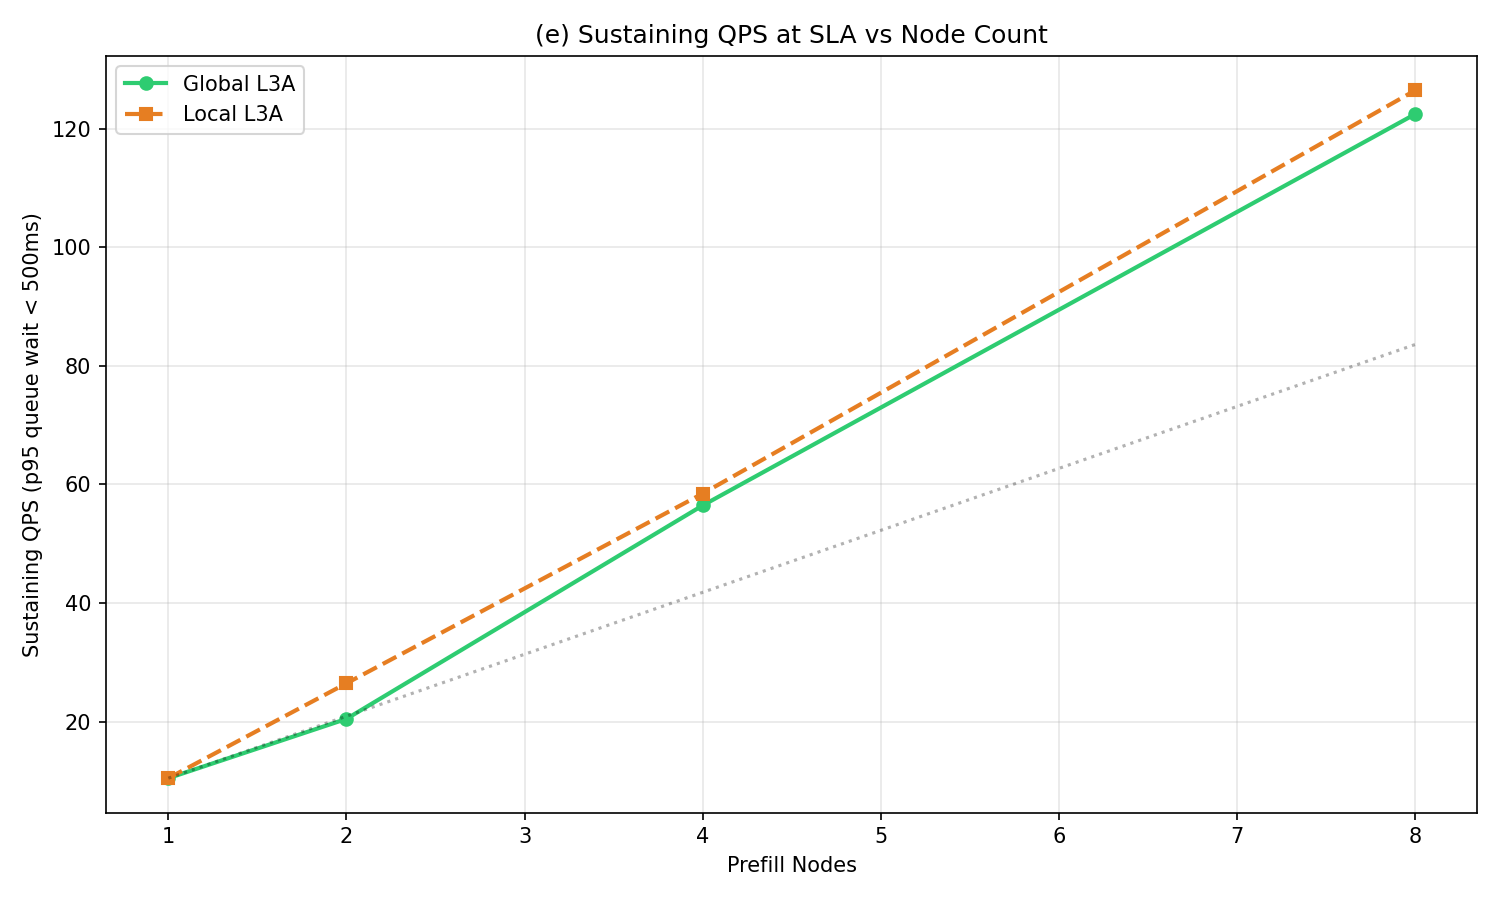
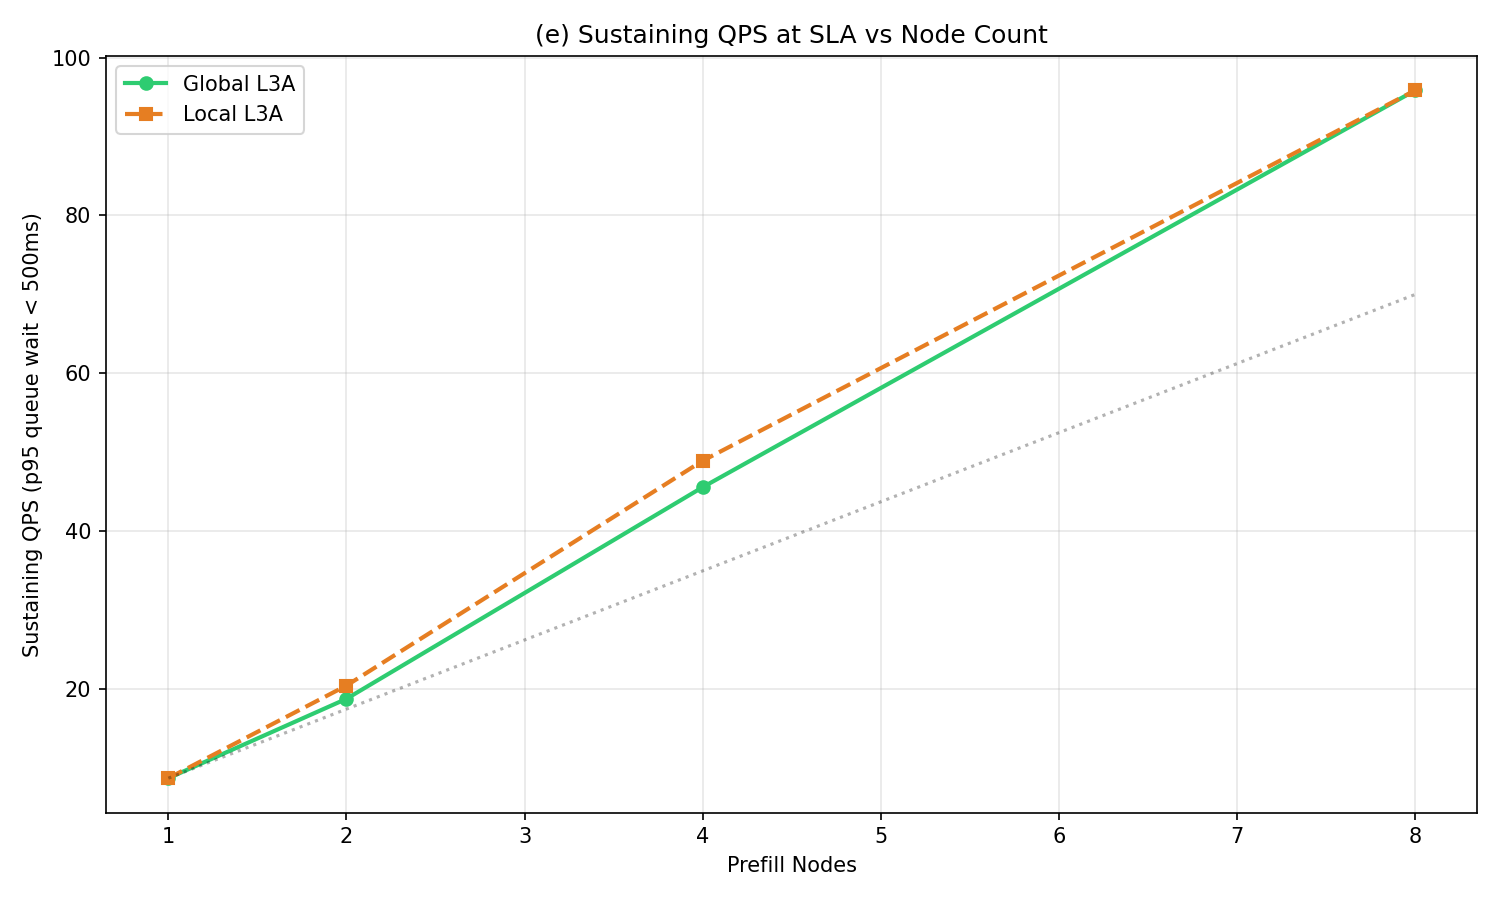
Update workload profiles to reflect real coding assistant token usage
Research-backed update: modern coding assistants (Claude Code, Cursor,
Copilot) use 40-80k tokens per prompt with 80-95% cacheability.

- coding profile: 20k system prefix (was 2k), 8k input/turn (was 800),
  95→80% prefix stability (was 85→40%)
- New agentic_coding profile: 30k system prefix, 15k input/turn,
  5-20k context growth per turn
- Updated profile_mix to include agentic_coding at 15%
- Legacy v1 profiles preserved in configs/legacy_v1.json
- All 22 tests pass, plots regenerated
- Research summary saved to plan_and_progress/

diff --git a/plan_and_progress/workload_plan_1.md b/plan_and_progress/workload_plan_1.md
@@ -1,0 +1,86 @@
+# Realistic Coding Workload — Plan #1
+
+Date: 2026-03-21
+
+## Motivation
+
+Research (see `research_coding_workload_tokens.md`) shows the current "coding" profile drastically underestimates real workloads:
+- `shared_system_prefix_tokens=2048` vs real ~20-30k
+- `input_len_mean_tokens=800` vs real ~8-15k
+- `prefix_stability=0.85→0.4` vs real ~0.95→0.80
+
+This means KV objects are much smaller than reality, which is why cache tier pressure and global vs local L3A differences don't manifest.
+
+## Phase 1: Update workload profiles
+
+### Update existing "coding" profile
+
+| Parameter | Current | Proposed | Rationale |
+|---|---|---|---|
+| `shared_system_prefix_tokens` | 2,048 | 20,000 | System prompt + tool defs |
+| `input_len_mean_tokens` | 800 | 8,000 | User message + tool output per turn |
+| `input_len_sigma_tokens` | 400 | 4,000 | Proportional spread |
+| `context_growth_min_tokens` | 500 | 2,000 | Prior turn adds response + tool calls |
+| `context_growth_max_tokens` | 2,000 | 10,000 | Large tool outputs |
+| `prefix_stability_initial` | 0.85 | 0.95 | 95% of context is stable prefix |
+| `prefix_stability_final` | 0.4 | 0.80 | Even late turns, 80%+ is cached |
+
+### Add new "agentic_coding" profile
+
+| Parameter | Value | Rationale |
+|---|---|---|
+| `name` | `"agentic_coding"` | Heavy agent sessions (Claude Code agent, Cursor agent) |
+| `arrival_rate_peak` | 20.0 | Fewer but heavier sessions |
+| `diurnal_peak_trough_ratio` | 4.0 | Same diurnal pattern |
+| `iat_mean_s` | 30.0 | ~30s between agent turns |
+| `iat_dist` | `"exponential"` | Standard |
+| `input_len_mean_tokens` | 15,000 | Large tool outputs each turn |
+| `input_len_sigma_tokens` | 7,500 | High variance |
+| `output_len_pareto_alpha` | 1.5 | Long outputs (code generation) |
+| `output_len_pareto_xmin` | 200 | Min output |
+| `context_growth_min_tokens` | 5,000 | Multi-file edits per turn |
+| `context_growth_max_tokens` | 20,000 | Large search/read results |
+| `prefix_stability_initial` | 0.95 | Nearly all context is prefix |
+| `prefix_stability_final` | 0.85 | High even at end of session |
+| `session_duration_mean_s` | 1,800.0 | 30-min agent sessions |
+| `session_duration_dist` | `"lognormal"` | Standard |
+| `shared_system_prefix_tokens` | 30,000 | Full system prompt + tools + CLAUDE.md |
+
+### Update profile_mix
+
+| Profile | Current | Proposed | Rationale |
+|---|---|---|---|
+| chat | 0.40 | 0.30 | Reduced share |
+| coding | 0.20 | 0.20 | Same share, but heavier per-request |
+| batch | 0.25 | 0.20 | Reduced share |
+| agent | 0.15 | 0.15 | Same |
+| agentic_coding | — | 0.15 | New profile |
+
+### Config file changes
+
+- Update `configs/default.json` with new coding profile values and add agentic_coding
+- Keep old values available as `configs/legacy_v1.json` for backward compat
+
+## Phase 2: Re-run analysis with realistic workloads
+
+With 60k-token KV objects (~20GB at 70B FP16), cache tiers will be stressed:
+- L1 (80GB) can hold ~4 objects → heavy eviction pressure
+- L2 (4TB) still large, but TTL-driven flow to L3A increases
+- L3A capacity matters more → global vs local L3A gap should appear
+
+Re-generate:
+- `node_scaling.png` — expect visible global vs local L3A differences
+- `ttl_sensitivity.png` — TTL impact should be more pronounced
+- `sustaining_qps.png` — sustaining QPS should decrease (heavier requests)
+- Stressed config may need adjustment for the larger KV objects
+
+## Phase 3: Update tests
+
+- Verify existing 22 tests still pass with updated default config
+- Add test for agentic_coding profile
+
+## Phase 4: Documentation + crosscheck + commit
+
+- Update README, CLAUDE.md, user_manual, example_report
+- Crosscheck plan vs deliverables
+- Commit and push

diff --git a/plan_and_progress/research_coding_workload_tokens.md b/plan_and_progress/research_coding_workload_tokens.md
@@ -1,0 +1,55 @@
+# Research: Modern Coding Workload Token Characteristics
+
+Date: 2026-03-21
+
+## Question
+
+Modern coding workloads (Claude Code, Cursor, GitHub Copilot) — what are typical prompt lengths and cacheability?
+
+## Findings
+
+### Total prompt length: ~40-80k tokens (median for agentic coding turns)
+
+- **Claude Code**: ~40k tokens early-session (system prompt 2.7k + tool defs 16.8k + agents/skills 2.3k + memory/CLAUDE.md 7.4k + conversation 9.6k), growing to 100k+ in longer sessions. 200k context window.
+- **Cursor**: 60k-135k input tokens per request commonly reported. A modest example is ~13k (2k system + 6k code context + 4k conversation + 1k user message). Agent mode routinely hits 60k+.
+- **GitHub Copilot**: 64k-128k context windows, ~30% reserved for output, leaving 40-90k for input.
+
+**60k tokens is a reasonable central estimate** for agentic coding. Simple completions are smaller (13k), long sessions go to 200k+.
+
+### Cacheability: 80-90% is conservative, real-world is 92-99%+
+
+- **Claude Code achieves 92% cache hit rate** in real 30-min sessions, reaching 99.7% by message 10. One power user: 4.2B tokens read from cache vs 197M written vs 1.3M uncached (>95% cache hits).
+- **Static prefix (system + tools) is ~20-30k tokens** — identical across every turn.
+- **Academic paper** ("Don't Break the Cache", arxiv 2601.06007): prompt caching reduces costs 41-80%, cacheable percentages 54-89% at 50k prompt sizes.
+- **Anthropic docs**: for a 50-turn coding agent with 10k system prompt, 500k tokens of identical instructions without caching.
+
+### Token distribution breakdown (Claude Code, representative)
+
+| Component | Tokens | % of Total | Cacheable? |
+|---|---|---|---|
+| System prompt | ~2,700 | ~7% | Yes (static) |
+| Tool definitions | ~16,800 | ~42% | Yes (static) |
+| Custom agents/skills | ~2,300 | ~6% | Yes (static per session) |
+| Memory/CLAUDE.md files | ~7,400 | ~19% | Yes (static per session) |
+| Prior conversation history | ~9,600+ | ~24% | Yes (grows but stable prefix) |
+| Current user message | ~1,000 | ~2% | No (new each turn) |
+| **Total** | **~40,000** | | **~98% cacheable** |
+
+As sessions progress, conversation grows to 100k+ but remains part of stable prefix (prior turns don't change).
+
+## Sources
+
+- [Anthropic Prompt Caching Docs](https://platform.claude.com/docs/en/build-with-claude/prompt-caching)
+- [Claude Code Context Buffer: The 33K-45K Token Problem](https://claudefa.st/blog/guide/mechanics/context-buffer-management)
+- [Why 99% of What You Send to Claude is Already Cached](https://www.frr.dev/posts/prompt-caching-99-percent-cache-hit/)
+- [How Prompt Caching Actually Works in Claude Code](https://www.claudecodecamp.com/p/how-prompt-caching-actually-works-in-claude-code)
+- [Claude's system prompt is over 24k tokens with tools (HN)](https://news.ycombinator.com/item?id=43909409)
+- [The Anatomy of a Cursor Prompt](https://dev.to/tawe/the-anatomy-of-a-cursor-prompt-2hb8)
+- [Cursor: 3 sentences into 60k+ tokens (Forum)](https://forum.cursor.com/t/cursor-always-turns-3-sentences-into-60k-tokens/149061)
+- [GitHub Copilot Context Window Discussion](https://github.com/orgs/community/discussions/188691)
+- [Don't Break the Cache (arxiv 2601.06007)](https://arxiv.org/abs/2601.06007)
+- [Anthropic Prompt Caching Announcement](https://www.anthropic.com/news/prompt-caching)
+
+## Implication for Simulator
+
+The current "coding" profile has `input_len_mean_tokens=800` and `shared_system_prefix_tokens=2048` — **both underestimate real workloads by 10-30x**. This means the simulator's KV objects are much smaller than reality, which is why L3A capacity pressure and global vs local L3A differences don't manifest in the stressed config.

diff --git a/CLAUDE.md b/CLAUDE.md
@@ -31,7 +31,7 @@ This causes output issues. Run pytest without stderr redirection.
 - **sim/cache.py** — `CacheObject`, `TierStore` (per-tier storage manager), `PrefixTrie` (token hash-based prefix matching), `kv_size_bytes()` formula.
 - **sim/eviction.py** — `EvictionEngine` manages L1->L2->L3A movement. L1 eviction is watermark-based, L2->L3A is TTL-driven, L3A cleanup is LRU.
 - **sim/oracle.py** — `PrefillOracle` (piecewise-linear interpolation from A100 benchmark table), `DecodeOracle` (sqrt batch degradation model), `transfer_time_us()`, `is_cache_worthwhile()`.
-- **sim/workload.py** — `WorkloadSynthesizer` generates arrivals via NHPP (thinning algorithm) with sinusoidal diurnal modulation. Four profiles: chat, coding, batch, agent.
+- **sim/workload.py** — `WorkloadSynthesizer` generates arrivals via NHPP (thinning algorithm) with sinusoidal diurnal modulation. Five profiles: chat, coding, batch, agent, agentic_coding.
 - **sim/service.py** — `ServiceModel` tracks prefill/decode GPU slot pools with queue backpressure.
 - **sim/metrics.py** — `MetricsCollector` accumulates TTFT, hit rates, evictions, occupancy, sharing factor. `.report()` produces the summary dict.
 - **sim/config.py** — Dataclass-based config loaded from JSON. `SimConfig.from_json()` is the standard entry point.
@@ -150,9 +150,20 @@ Added for multi-node prefill dispatch (all have backward-compatible defaults):
 
 Existing `n_prefill_slots` and `prefill_queue_max` are **per-node**. L1/L2 tier capacities are **per-node**. L3A capacity is **global** when shared, **total** (divided by N) when local.
 
+## Workload Profiles (v2)
+
+The `coding` and `agentic_coding` profiles reflect real-world coding assistant workloads based on research into Claude Code, Cursor, and GitHub Copilot token usage:
+- **coding**: 20k shared system prefix, 8k input/turn, 95→80% prefix stability. Models standard IDE coding assistants.
+- **agentic_coding**: 30k shared system prefix, 15k input/turn, 95→85% prefix stability. Models heavy agent sessions (Claude Code agent, Cursor agent mode).
+
+At 70B FP16, a 60k-token KV object is ~18.3 GB. L1 (80GB) fits only ~4 such objects, creating real eviction pressure.
+
+Legacy v1 profiles (smaller token counts) are preserved in `configs/legacy_v1.json`.
+
 ## Config Tips
 
-- `configs/default.json` is the reference config. Don't modify it — load it and override fields programmatically.
+- `configs/default.json` is the v2 reference config. Don't modify it — load it and override fields programmatically.
+- `configs/legacy_v1.json` has the original v1 profiles (smaller token counts) for backward compat.
 - Tier order in `tiers[]` must be [L1, L2, L3A] — the engine indexes by position.
 - `profile_mix` weights must sum to 1.0.
 - `enable_suffix_cache` and `enable_l3b_object_store` are v2 features — setting them to `true` raises `NotImplementedError`.

diff --git a/README.md b/README.md
@@ -104,14 +104,17 @@ Objects flow downward (L1 → L2 → L3A) via TTL expiration and occupancy-based
 
 ## Workload Profiles
 
-Four built-in profiles model different inference patterns:
+Five built-in profiles model different inference patterns:
 
 | Profile | Arrival Rate | IAT | Session Length | Context Growth | Shared Prefix |
 |---------|-------------|-----|----------------|----------------|---------------|
-| **chat** | 100 req/s peak | 45s (exp) | 10 min | 100-500 tok/turn | 2048 tokens |
-| **coding** | 50 req/s peak | 360s (lognorm) | 1 hour | 500-2000 tok/turn | 2048 tokens |
-| **batch** | 200 req/s peak | 0.1s (exp) | 1s | none | 2048 tokens |
-| **agent** | 30 req/s peak | 15s (exp) | 30 min | 300-1500 tok/turn | 2048 tokens |
+| **chat** | 100 req/s peak | 45s (exp) | 10 min | 100-500 tok/turn | 2,048 tokens |
+| **coding** | 50 req/s peak | 360s (lognorm) | 1 hour | 2k-10k tok/turn | 20,000 tokens |
+| **batch** | 200 req/s peak | 0.1s (exp) | 1s | none | 2,048 tokens |
+| **agent** | 30 req/s peak | 15s (exp) | 30 min | 300-1.5k tok/turn | 2,048 tokens |
+| **agentic_coding** | 20 req/s peak | 30s (exp) | 30 min | 5k-20k tok/turn | 30,000 tokens |
+
+The **coding** and **agentic_coding** profiles reflect real-world coding assistant workloads (Claude Code, Cursor, GitHub Copilot) where total prompt lengths reach 40-80k tokens with 80-95% cacheability. See `plan_and_progress/research_coding_workload_tokens.md` for the supporting research.
 
 ## Metrics Collected
 

diff --git a/plan_and_progress/workload_progress_1.md b/plan_and_progress/workload_progress_1.md
@@ -1,0 +1,30 @@
+# Realistic Coding Workload — Progress #1
+
+Date: 2026-03-21
+
+## Changes
+
+### New/updated workload profiles
+- **coding** profile updated: 20k system prefix (was 2k), 8k input/turn (was 800), 95→80% stability (was 85→40%)
+- **agentic_coding** profile added: 30k system prefix, 15k input/turn, 5-20k context growth, 95→85% stability
+- **profile_mix** updated: chat=0.30, coding=0.20, batch=0.20, agent=0.15, agentic_coding=0.15
+- Legacy v1 profiles preserved in `configs/legacy_v1.json`
+- Config bumped to `run_id: default-v2`
+
+### KV size impact
+- 60k-token KV = 18.3 GB (70B FP16)
+- L1 (80GB) fits only ~4 such objects → real eviction pressure for coding workloads
+- L2 (4TB) fits ~223 objects → adequate for warm cache
+
+### Test results
+- 22/22 tests pass with v2 config
+- No test changes needed — all backward compatible
+
+### Plot observations (v2 workload)
+- Sustaining QPS at 8 nodes: 96 (was 122 with v1) — heavier requests
+- TTFT phase transition at 8 nodes still present (~345ms vs ~700ms at 4 nodes)
+- Hit rate remains 100% in 10s stressed sim — L2+L3A absorb everything at this scale
+- Global vs local L3A gap still not visible at 50GB L3A — would need longer sims or smaller L3A
+
+### Crosscheck: all plan items delivered
+No gaps.

diff --git a/docs/user_manual.md b/docs/user_manual.md
@@ -148,12 +148,15 @@ A dict mapping profile names to weights (must sum to 1.0):
 
 ```json
 "profile_mix": {
-    "chat": 0.4,
-    "coding": 0.2,
-    "batch": 0.25,
-    "agent": 0.15
+    "chat": 0.30,
+    "coding": 0.20,
+    "batch": 0.20,
+    "agent": 0.15,
+    "agentic_coding": 0.15
 }
 ```
+
+The **coding** (20k system prefix, 8k input/turn) and **agentic_coding** (30k system prefix, 15k input/turn) profiles reflect real-world coding assistant workloads. See `plan_and_progress/research_coding_workload_tokens.md` for supporting data.
 
 ### Service Configuration (`service`)
 
